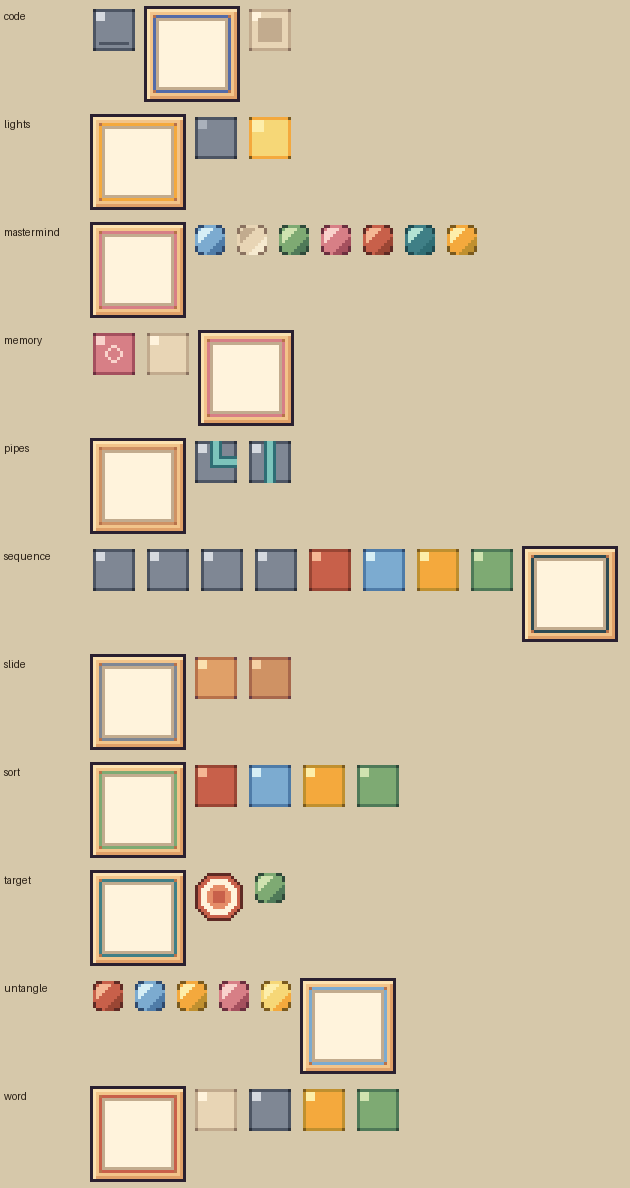
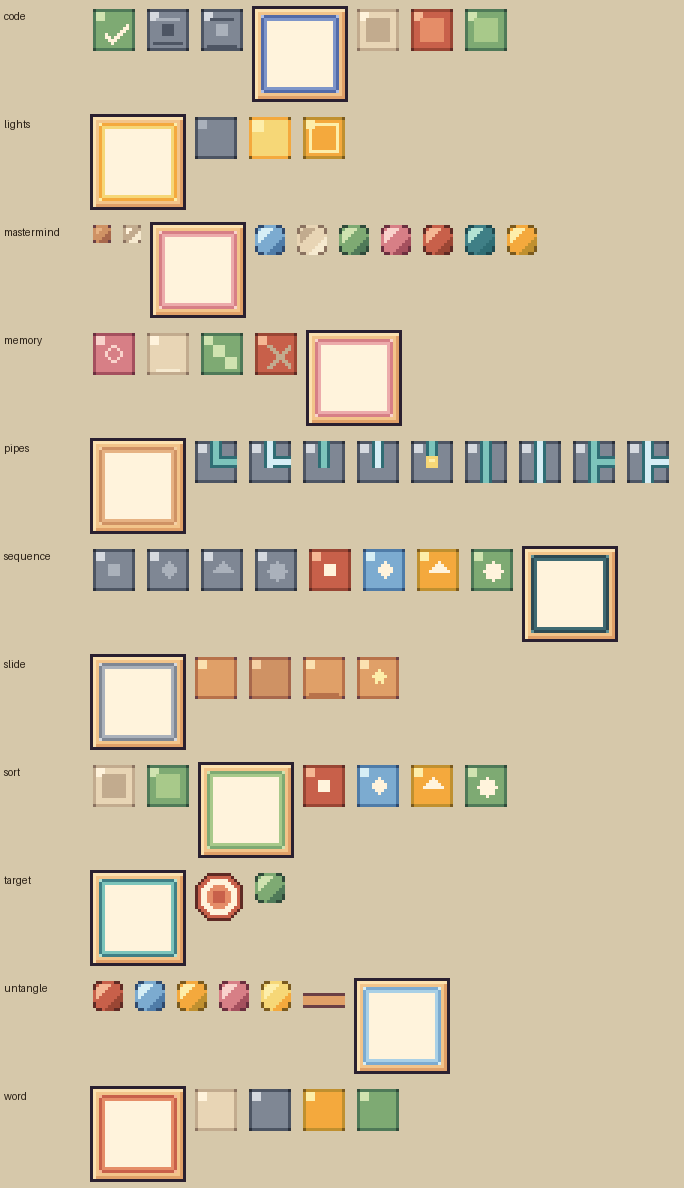
AI-6: puzzle skins: 2px accent trims, lights glow, mastermind feedback pegs, sequence shapes, untangle link

diff --git a/tools/pixelart/puzzle2.py b/tools/pixelart/puzzle2.py
@@ -5,7 +5,7 @@ import json, os, sys
 sys.path.insert(0, os.path.dirname(__file__))
 from dsl import col
 from yard import new
-from puzzles import tilec, put_all
+from puzzles import tilec, put_all, disc, blob
 CHECK = [(4, 8), (5, 9), (6, 10), (7, 9), (8, 8), (9, 7), (10, 6), (11, 5)]
 CROSS = [(x, x) for x in range(4, 12)] + [(x, 15 - x) for x in range(4, 12)]
 def check(c='paper'):
@@ -46,15 +46,27 @@ def pipes():
 def slide():
     star = lambda px: put_all(px, [(7, 4), (6, 5), (7, 5), (8, 5), (5, 6), (6, 6), (7, 6), (8, 6), (9, 6), (6, 7), (7, 7), (8, 7), (6, 8), (8, 8)], 'butter.4')
     return {'tile_ok': (tilec('woodWarm', star), (7, 7)), 'tile_down': (tilec('woodWarm', lambda px: put_all(px, [(x, 12) for x in range(2, 12)], 'woodWarm.1')), (7, 7))}
-SHAPES = [lambda px: put_all(px, [(x, y) for x in range(5, 9) for y in range(5, 9)], 'paper'),
-          lambda px: put_all(px, [(7, 4), (6, 5), (7, 5), (8, 5), (5, 6), (6, 6), (7, 6), (8, 6), (9, 6), (5, 7), (6, 7), (7, 7), (8, 7), (9, 7), (6, 8), (7, 8), (8, 8), (7, 9)], 'paper'),
-          lambda px: put_all(px, [(7, 4), (6, 5), (7, 5), (8, 5), (5, 6), (6, 6), (7, 6), (8, 6), (9, 6), (4, 7), (5, 7), (6, 7), (7, 7), (8, 7), (9, 7), (10, 7)], 'paper'),
-          lambda px: put_all(px, [(x, y) for x in range(4, 11) for y in range(4, 11) if (x - 7) ** 2 + (y - 7) ** 2 <= 9], 'paper')]
+SHAPES = [lambda px, c='paper': put_all(px, [(x, y) for x in range(5, 9) for y in range(5, 9)], c),
+          lambda px, c='paper': put_all(px, [(7, 4), (6, 5), (7, 5), (8, 5), (5, 6), (6, 6), (7, 6), (8, 6), (9, 6), (5, 7), (6, 7), (7, 7), (8, 7), (9, 7), (6, 8), (7, 8), (8, 8), (7, 9)], c),
+          lambda px, c='paper': put_all(px, [(7, 4), (6, 5), (7, 5), (8, 5), (5, 6), (6, 6), (7, 6), (8, 6), (9, 6), (4, 7), (5, 7), (6, 7), (7, 7), (8, 7), (9, 7), (10, 7)], c),
+          lambda px, c='paper': put_all(px, [(x, y) for x in range(4, 11) for y in range(4, 11) if (x - 7) ** 2 + (y - 7) ** 2 <= 9], c)]
 def sort():
     out = {f'token_{i}': (tilec(r, SHAPES[i]), (7, 7)) for i, r in enumerate(('terracotta', 'sky', 'butter', 'sage'))}
     out['bin'] = (tilec('plaster', well('plaster.1')), (7, 7)); out['bin_ok'] = (tilec('sage', well('sage.3')), (7, 7))
     return out
-KINDS = {'code': code, 'memory': memory, 'pipes': pipes, 'slide': slide, 'sort': sort}
+def lights():
+    return {'tile_on_glow': (tilec('butter', lambda px: put_all(px, [(x, y) for x in range(2, 12) for y in range(2, 12) if x in (2, 11) or y in (2, 11)], 'butter.4')), (7, 7))}
+def mastermind():
+    return {'fb_exact': (disc(8, 'woodDark.2', 'woodDark.3', 'woodDark.1'), (4, 4)), 'fb_near': (disc(8, 'plaster.1', 'paper', 'plaster.3'), (4, 4))}
+def sequence():
+    out = {}
+    for i, r in enumerate(('terracotta', 'sky', 'butter', 'sage')):
+        out[f'pad_{i}'] = (tilec('stone', lambda px, i=i: SHAPES[i](px, 'stone.3')), (7, 7)); out[f'pad_lit_{i}'] = (tilec(r, SHAPES[i]), (7, 7))
+    return out
+def untangle():
+    link = blob(16, lambda x, y: col('woodWarm.2') if y in (5, 6, 7) and x < 14 else (0, 0, 0, 0))
+    return {'link': (link, (8, 8))}
+KINDS = {'code': code, 'memory': memory, 'pipes': pipes, 'slide': slide, 'sort': sort, 'lights': lights, 'mastermind': mastermind, 'sequence': sequence, 'untangle': untangle}
 def save(d, kind, name, im, pv, piv):
     pd = new(im.width + 2, im.height + 2); pd.alpha_composite(im, (1, 1))
     pd.save(os.path.join(d, f'puzzle__{kind}__{name}.png')); piv[f'puzzle/{kind}/{name}'] = {'pivot': [pv[0] + 1, pv[1] + 1]}

diff --git a/tools/pixelart/puzzles.py b/tools/pixelart/puzzles.py
@@ -17,10 +17,10 @@ def panel(accent):
             elif d == 1: c = col('woodWarm.4') if (x < n / 2 and y < n / 2) or d == 1 and (x == 1 or y == 1) else col('woodWarm.2')
             elif d == 2: c = col('woodWarm.3')
             elif d == 3: c = col(f'{accent}.2') if True else col('woodWarm.3')
-            elif d == 4: c = col('plaster.1')
+            elif d == 4: c = col(f'{accent}.3')
             else: c = col('paper')
             px[x, y] = c
-    for cx, cy in ((3, 3), (n - 4, 3), (3, n - 4), (n - 4, n - 4)): px[cx, cy] = col('woodWarm.1')
+    for cx, cy in ((3, 3), (n - 4, 3), (3, n - 4), (n - 4, n - 4)): px[cx, cy] = col(f'{accent}.4')
     return im
 def blob(w, fn):
     return outline(Image.frombytes('RGBA', (w - 2, w - 2), bytes(sum(([*fn(x, y)] for y in range(w - 2) for x in range(w - 2)), []))))

diff --git a/docs/art/PUZZLE-SKINS.md b/docs/art/PUZZLE-SKINS.md
@@ -26,3 +26,7 @@ Panels differ only by a thin accent line; at phone size they read as one skin. N
 - slide: `tile_ok`; sort: `bin`, `bin_ok`; mastermind: `fb_exact`, `fb_near`; lights: `tile_on_glow`
 - all kinds: `btn` (nine-slice button), `btn_down`, `mark_ok`, `mark_no`
 AI-7: please reply under Requests with the names your scenes really need; I draw only those.
+
+## Delivered (AI-6, 5 Nov)
+code: key_down slot_ok slot_bad btn_ok | memory: card_match card_miss | pipes: pipe_tee pipe_end pipe_source *_on | slide: tile_ok tile_down | sort: bin bin_ok, shaped tokens | lights: tile_on_glow | mastermind: fb_exact fb_near | sequence: shaped pads | untangle: link.
+Not drawn: generic `btn`, `mark_ok`, `mark_no` (no scene asked yet).

diff --git a/docs/status/AI-6.md b/docs/status/AI-6.md
@@ -18,6 +18,8 @@
 
 - Task 3 audit: all 16 FX names have 3 frames (docs/art/evidence/fx-4x.png). Redrew take (sparkle), clue (question mark), room (comet streak): fx-redo-6x.png.
 
+- Gaps closed: panel trim now 2 px accent (was 1 px) with accent rivets; lights tile_on_glow; mastermind fb_exact, fb_near (8x8); sequence pads carry shapes (lit and unlit); untangle link (rope piece). Sheet: puzzle-skins-3x.png. Weak: memory and mastermind both use the rose accent (palette has 12 ramps for 11 kinds); untangle link is a plain bar; target still has only ring and hit mark.
+
 ## Next
 - Task 2, memory: card_match, card_miss, card_face (plaster, bottom line). Evidence puzzle-memory-3x.png.
 
